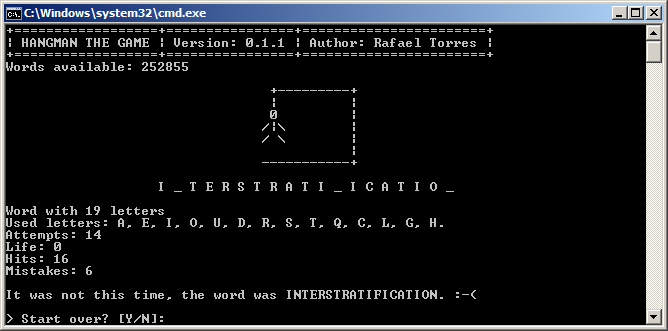
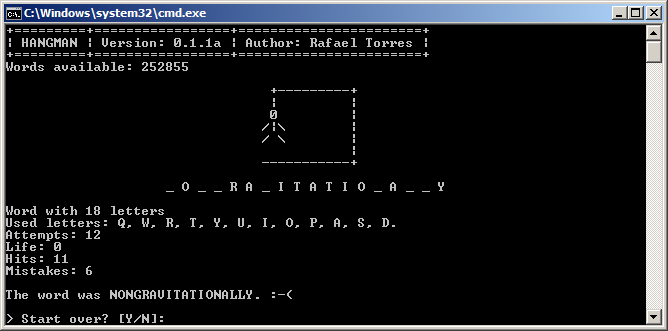
0.1.1a

diff --git a/ui/disp.py b/ui/disp.py
@@ -6,9 +6,9 @@ def clr_sc():
 
 
 def title():
-    print("+==================+================+=======================+")
-    print("| HANGMAN THE GAME | Version: 0.1.1 | Author: Rafael Torres |")
-    print("+==================+================+=======================+")
+    print("+=========+=================+=======================+")
+    print("| HANGMAN | Version: 0.1.1a | Author: Rafael Torres |")
+    print("+=========+=================+=======================+")
 
 
 def avail_words(words_number):
